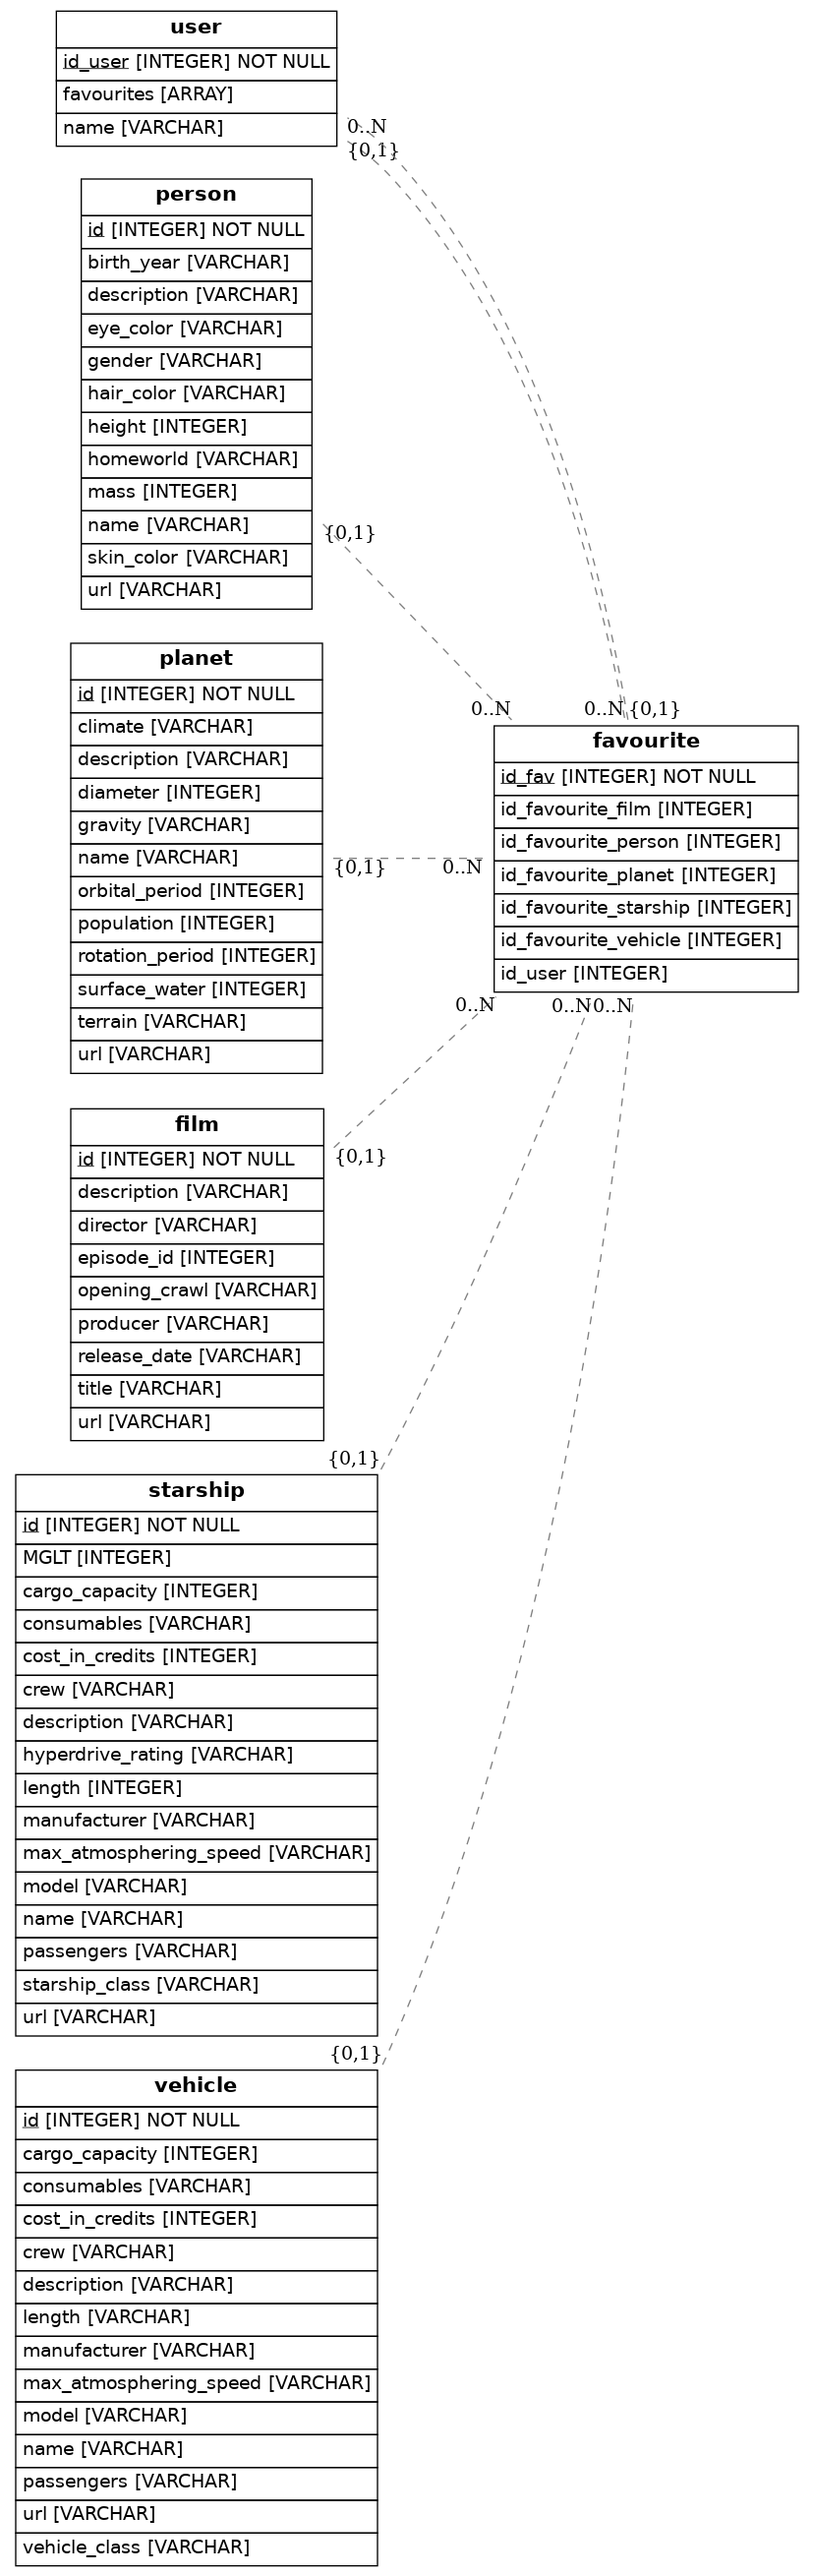
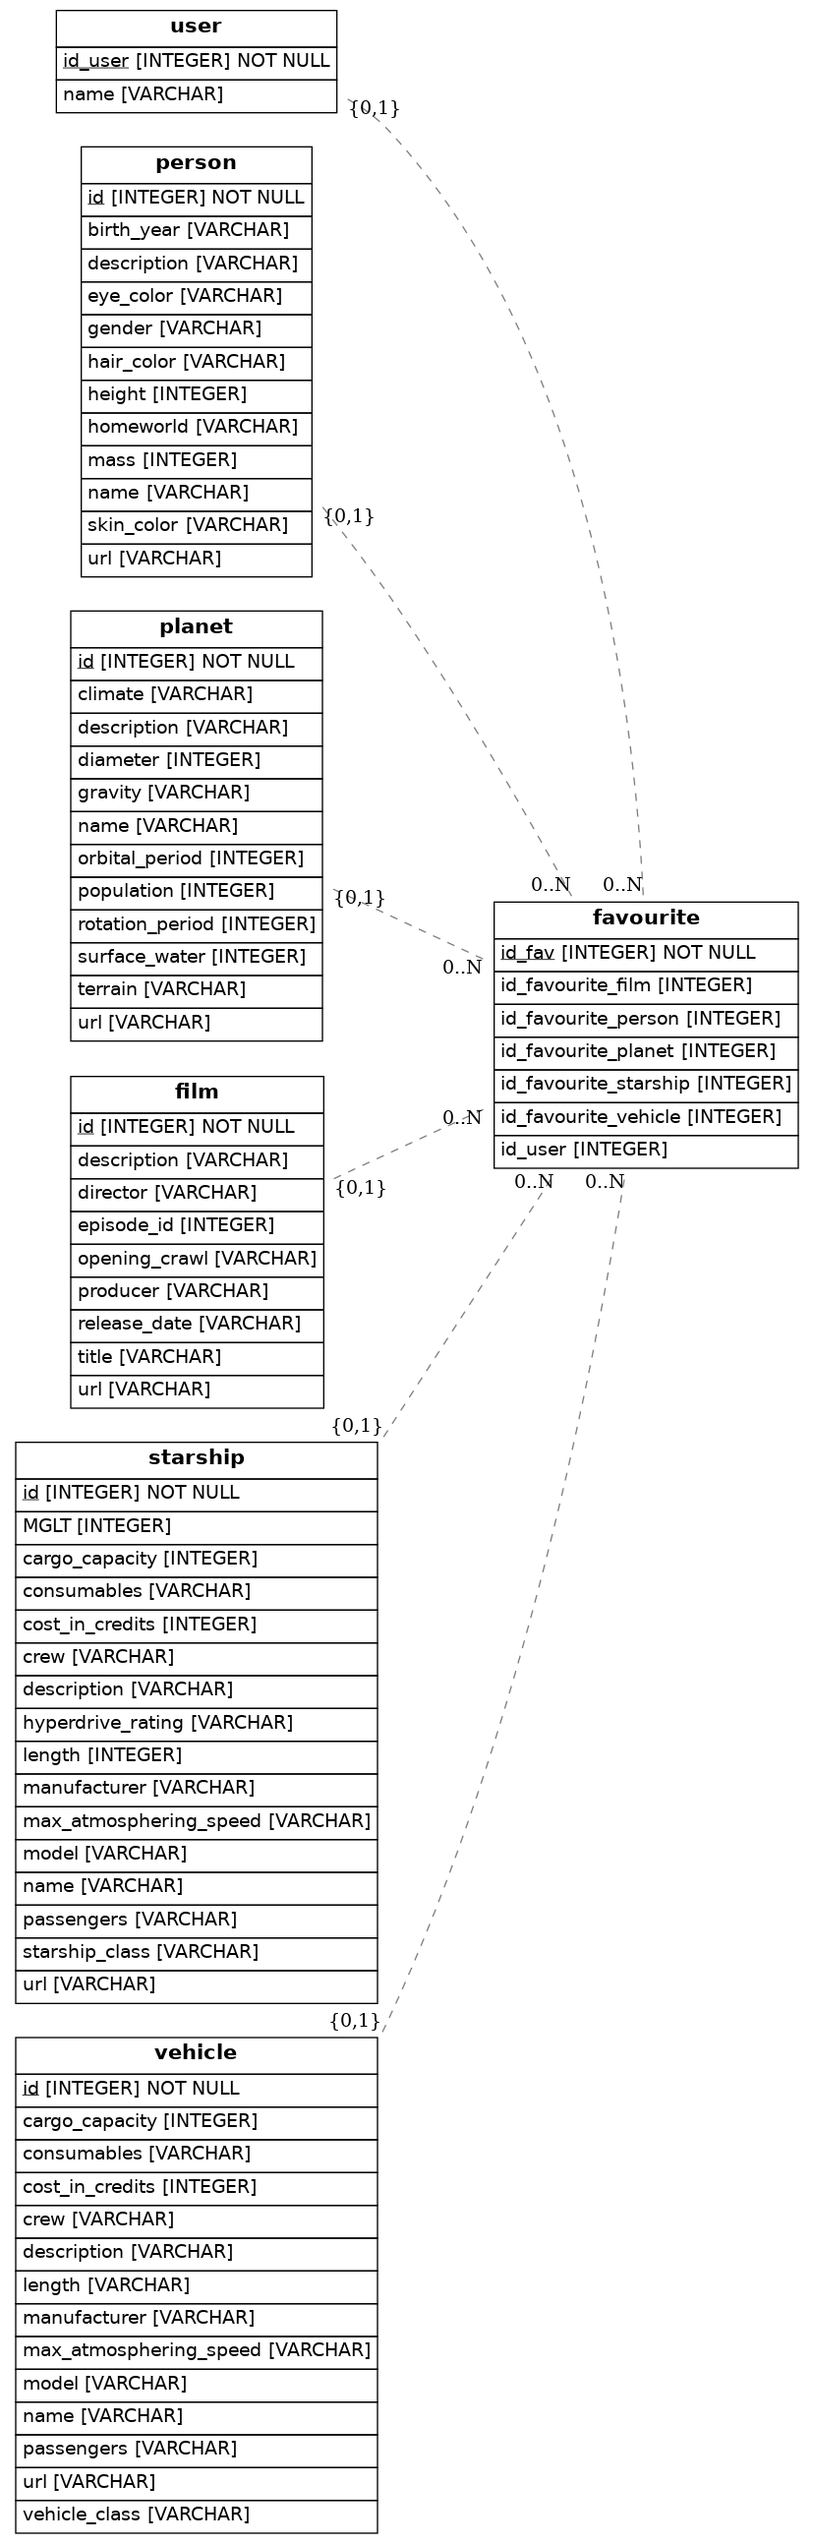
Segundo commit

diff --git a/src/models.py b/src/models.py
@@ -13,6 +13,8 @@ class User(Base):
     name = Column(String)
     favourites = Column(ARRAY(Integer), ForeignKey('favourite.id_fav'))
 
+    favourites = relationship("Favourite", back_populates="user")
+
 class Favourite(Base):
     __tablename__ = 'favourite'
     id_fav = Column(Integer, primary_key=True)
@@ -22,6 +24,13 @@ class Favourite(Base):
     id_favourite_film = Column(Integer, ForeignKey('film.id'))
     id_favourite_starship = Column(Integer, ForeignKey('starship.id'))
     id_favourite_vehicle = Column(Integer, ForeignKey('vehicle.id'))
+
+    user = relationship("User", back_populates="favourites")
+    planet = relationship("Planet")
+    person = relationship("Person")
+    film = relationship("Film")
+    starship = relationship("Starship")
+    vehicle = relationship("Vehicle")
 
 class Person(Base):
     __tablename__ = 'person'
